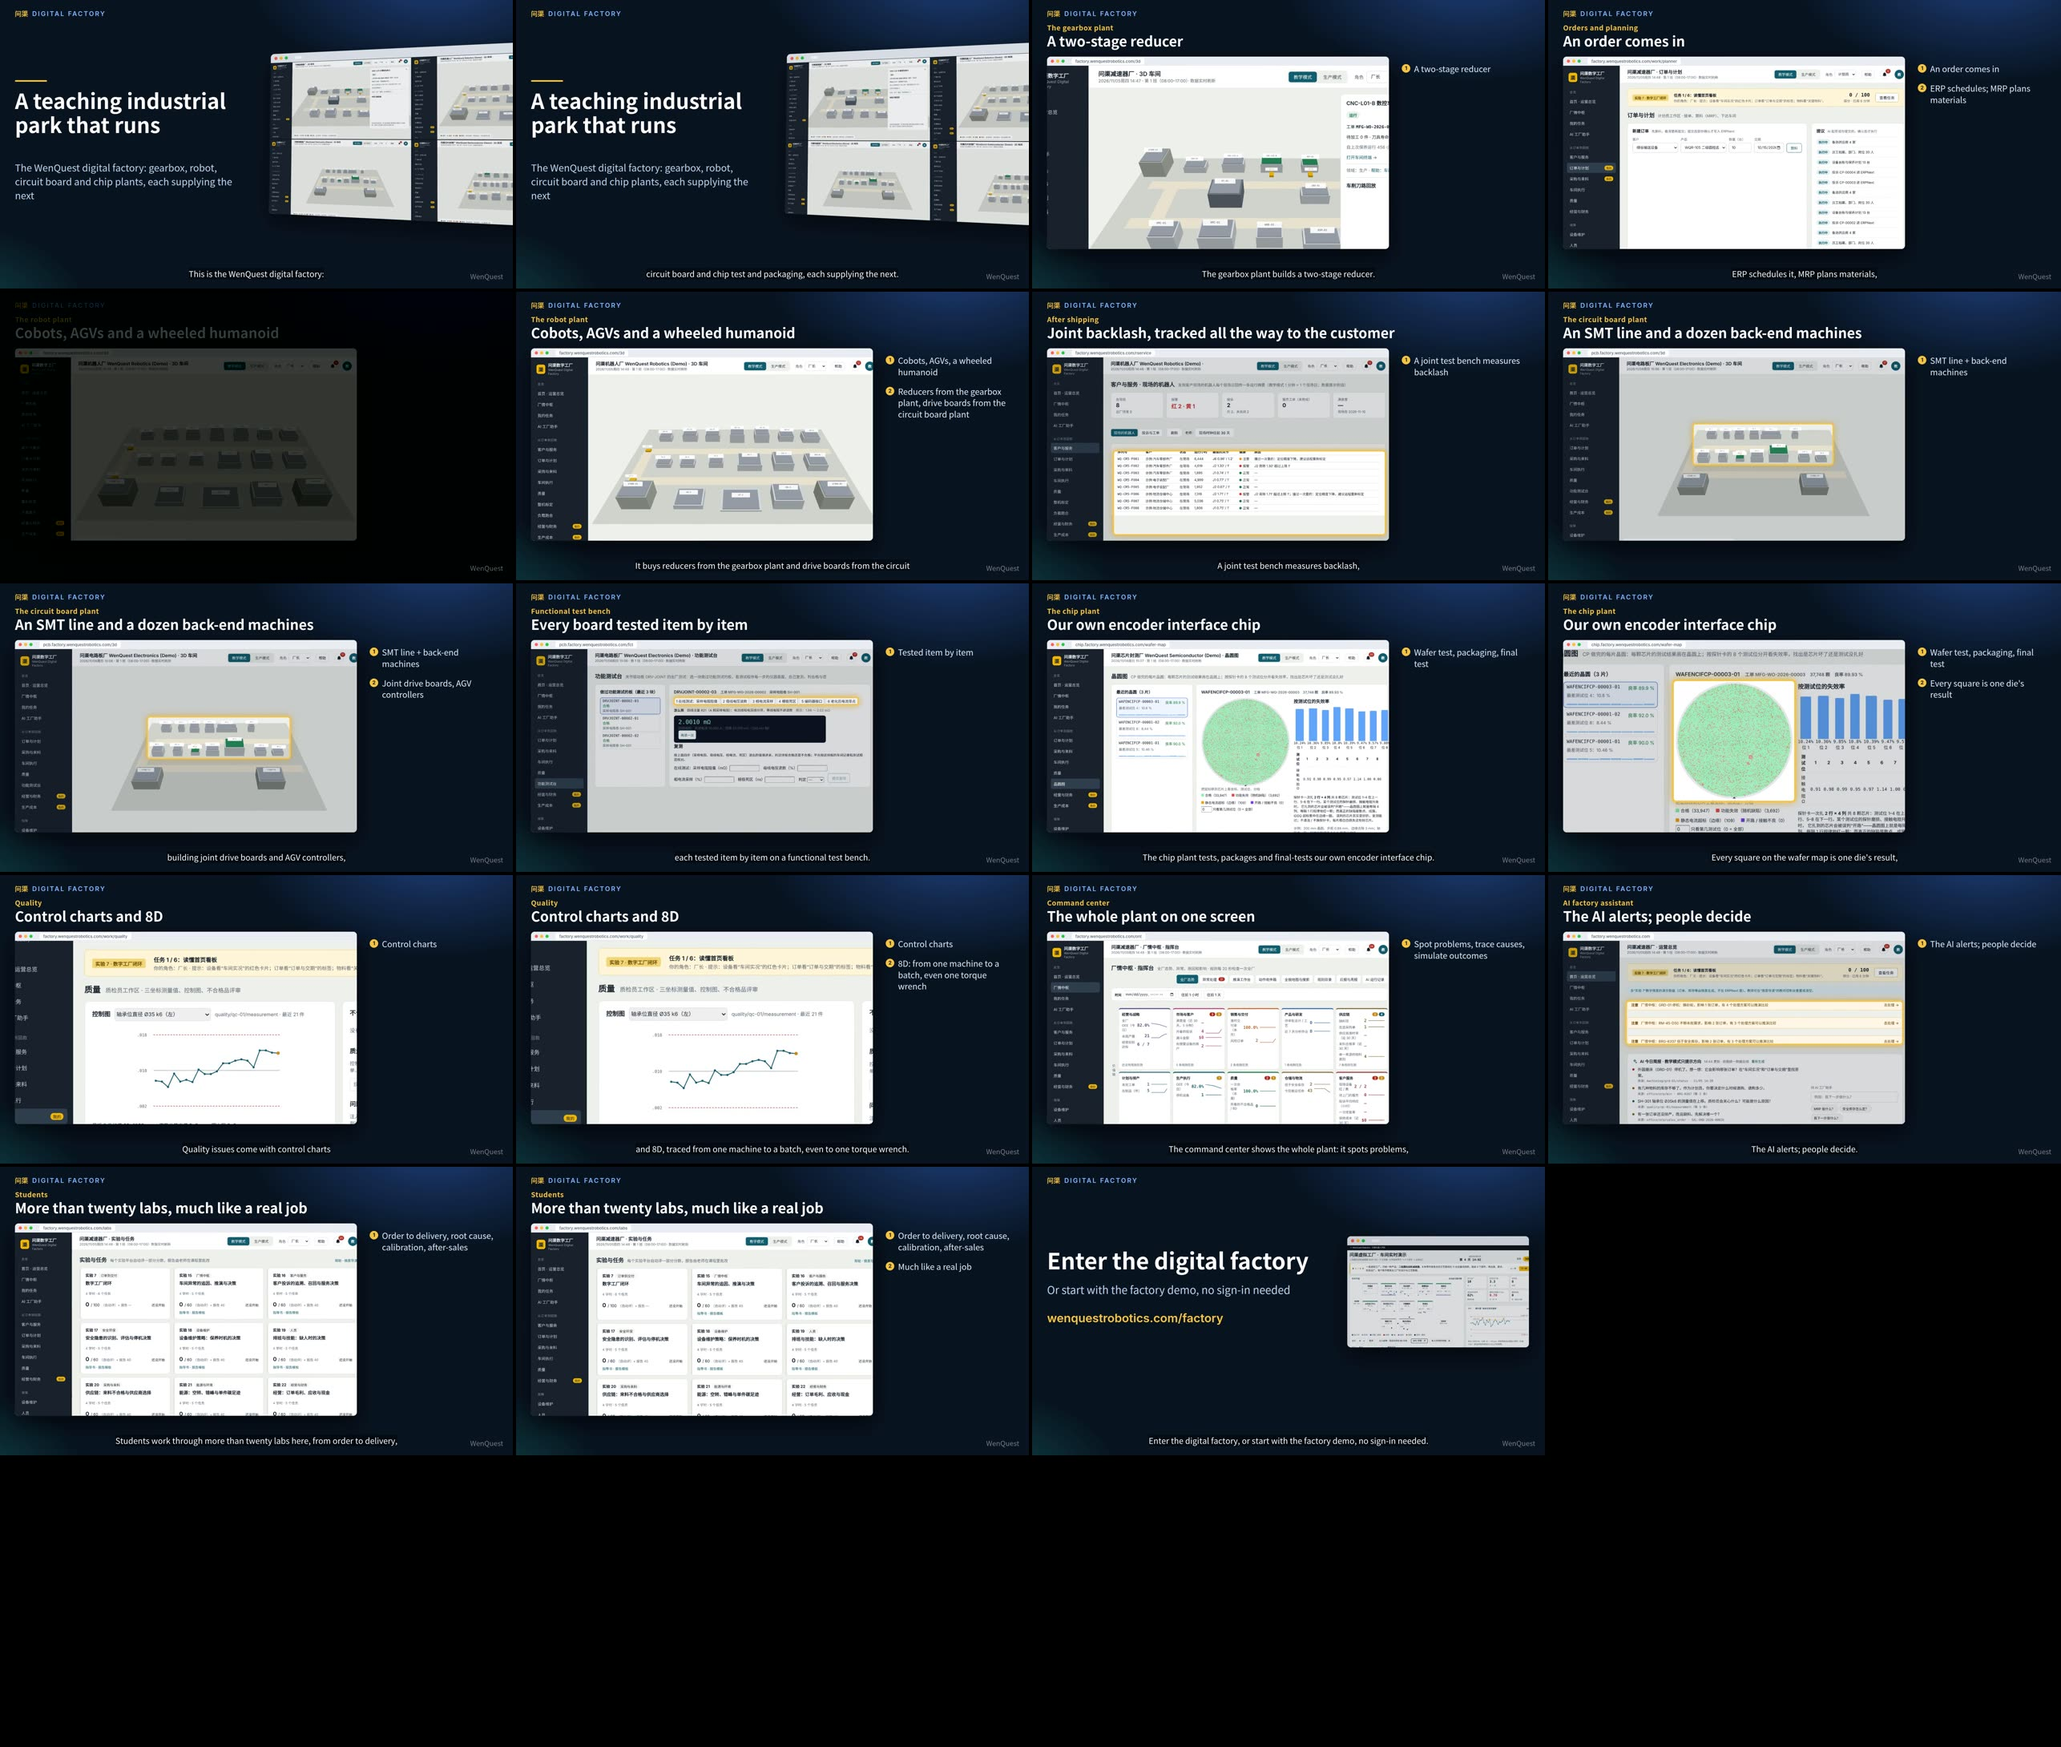
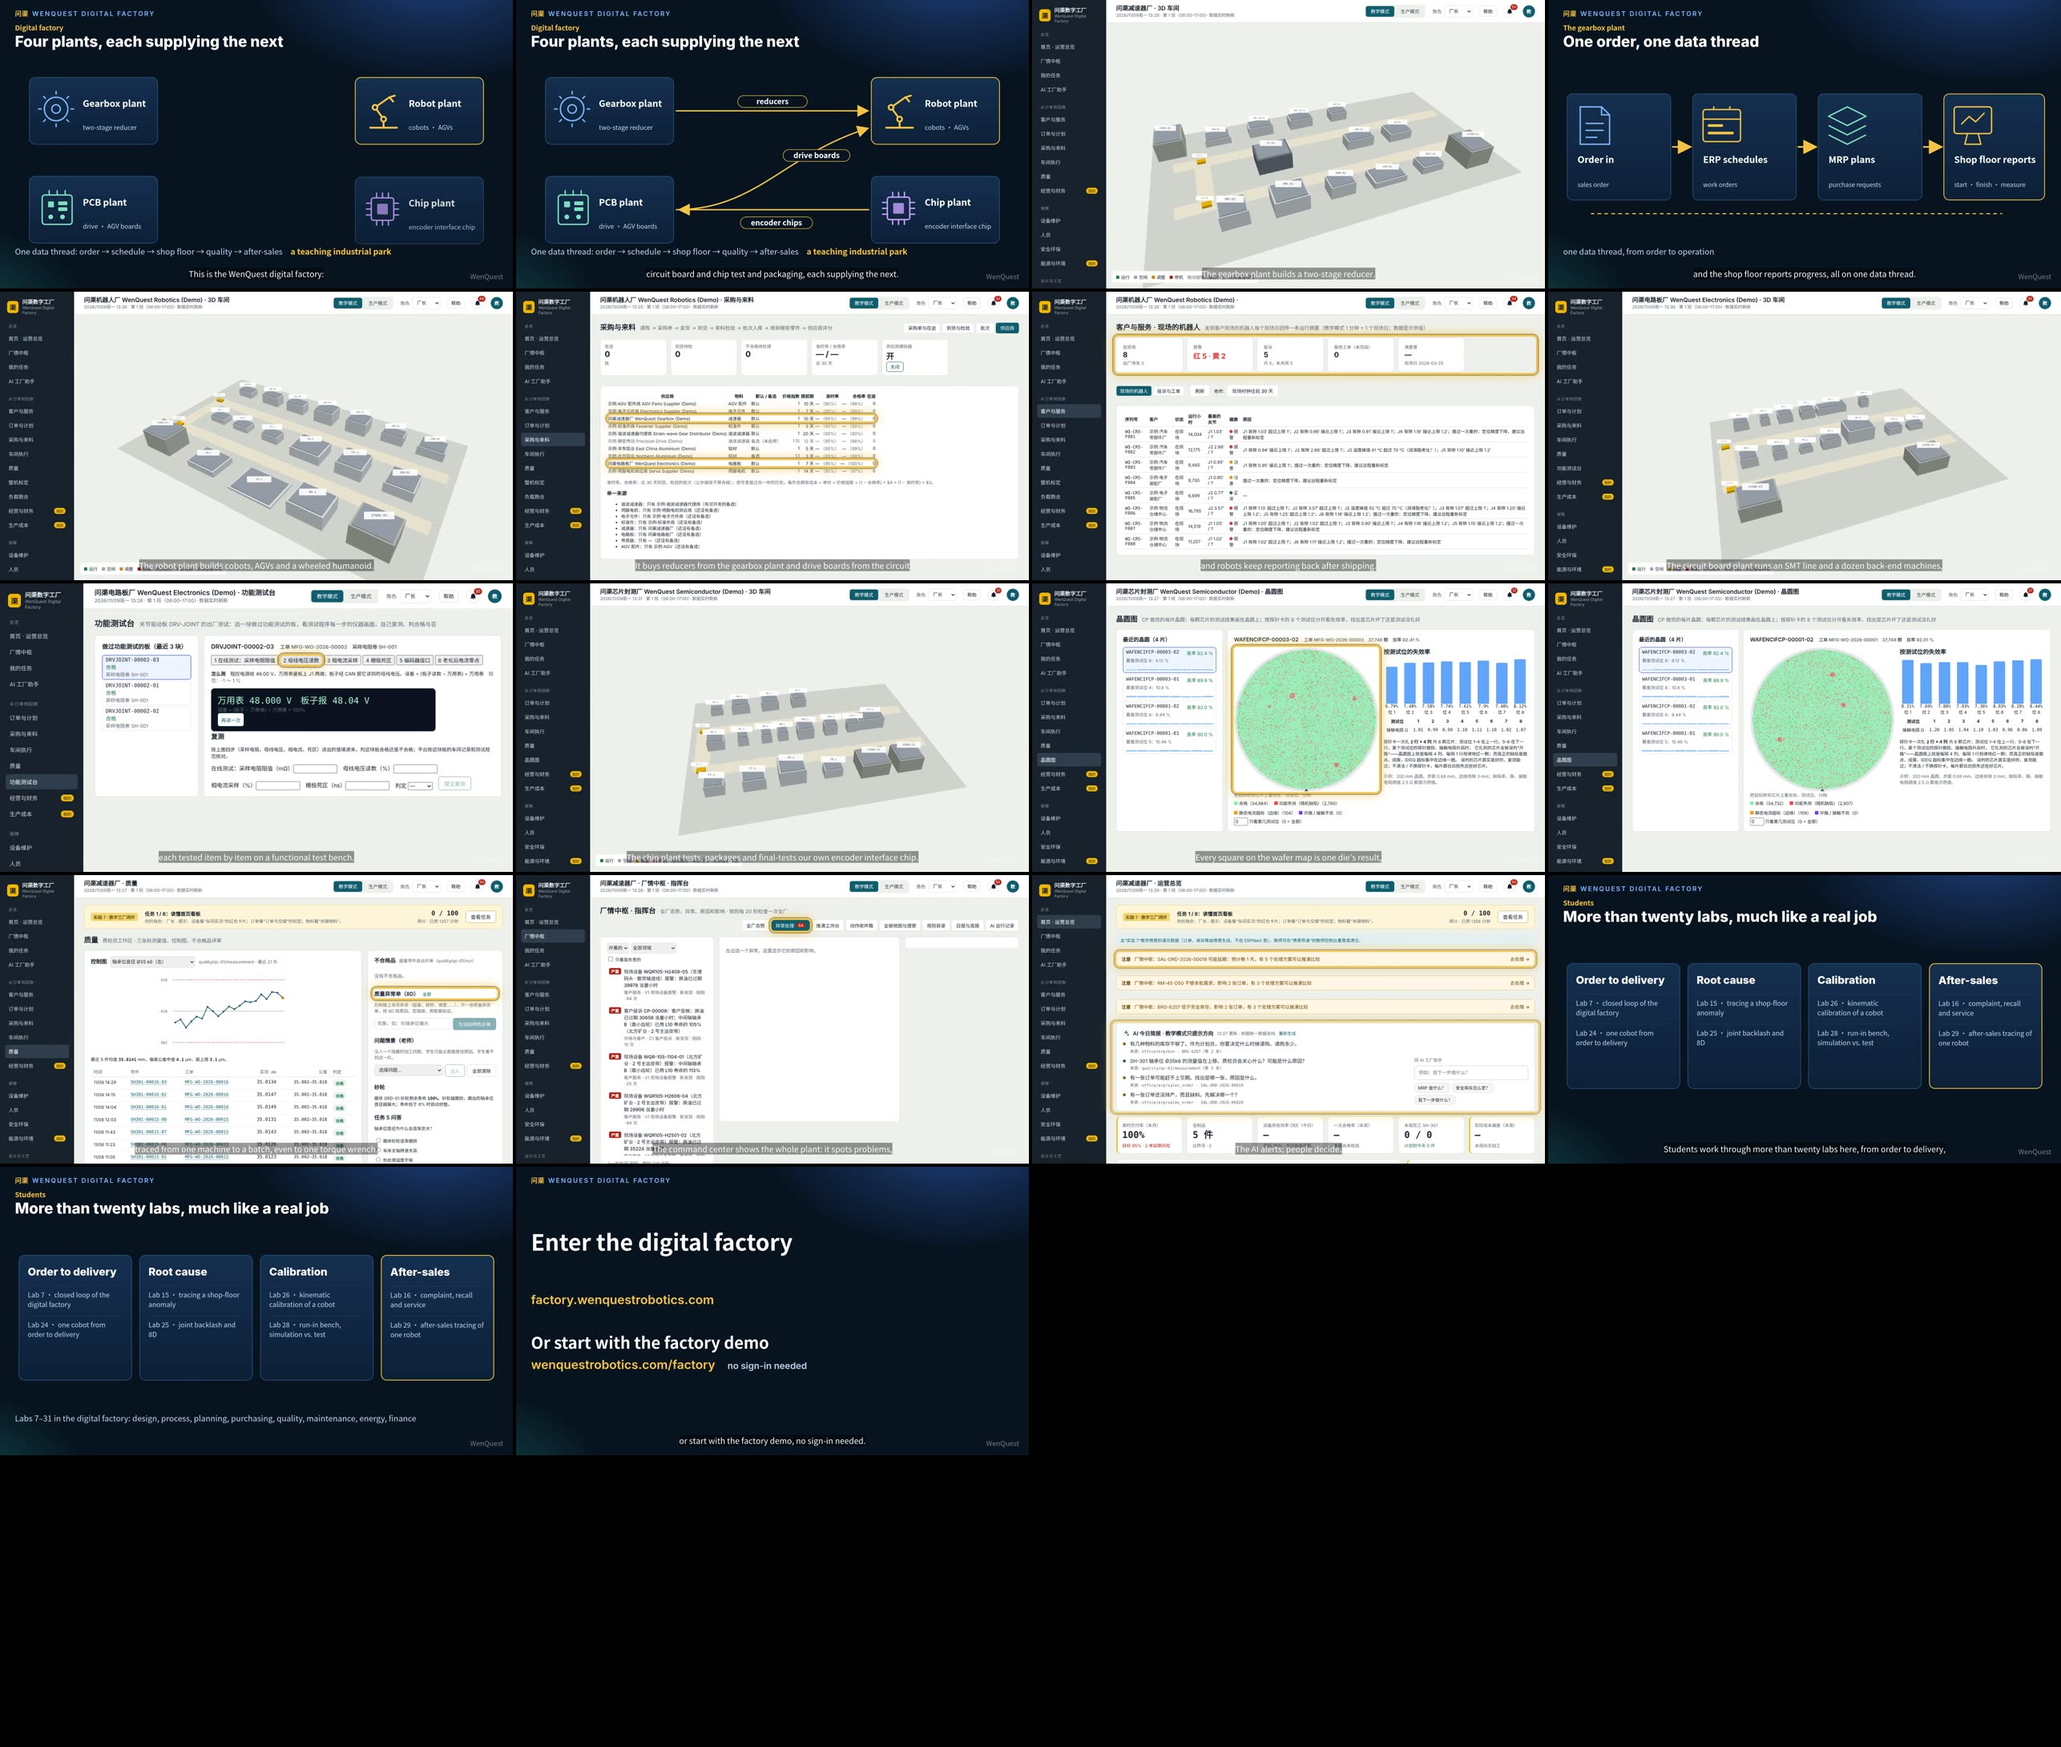
公开课视频预览：docs/课程视频/首页简介/07-数字工厂（kokoro）

diff --git a/docs/课程视频/首页简介/07-数字工厂/预览/上传资料.en.md b/docs/课程视频/首页简介/07-数字工厂/预览/上传资料.en.md
@@ -9,15 +9,15 @@ The WenQuest digital factory: a teaching industrial park that runs
 Chapters:
 0:00 Intro
 0:10 Gearbox plant
-0:22 Robot plant
-0:36 Circuit board plant
-0:49 Chip plant
-1:01 Quality
-1:09 Command center
-1:18 Labs
-1:27 Outro
+0:20 Robot plant
+0:34 Circuit board plant
+0:45 Chip plant
+0:57 Quality
+1:05 Command center
+1:13 Labs
+1:22 Outro
 
-Voice: AI-generated.Orders, customers and figures shown are teaching-scenario demo data.
+Voice: AI-generated.Orders, customers and figures shown are teaching-scenario demo data; diagrams are illustrations.
 
 ## Tags
 digital factory, smart manufacturing, ERP, MES, digital twin, industrial engineering, quality, robotics, PCB assembly, chip packaging and test, WenQuest
@@ -25,4 +25,4 @@ digital factory, smart manufacturing, ERP, MES, digital twin, industrial enginee
 ## Settings
 - Altered or synthetic content: Yes (AI voice)
 
-<!-- length 1:33 -->
+<!-- length 1:29 -->

diff --git a/docs/课程视频/首页简介/07-数字工厂/预览/上传资料.zh.md b/docs/课程视频/首页简介/07-数字工厂/预览/上传资料.zh.md
@@ -9,15 +9,15 @@
 章节：
 0:00 开场
 0:10 减速器厂
-0:20 机器人厂
-0:34 电路板厂
-0:44 芯片封测厂
-0:56 质量
-1:03 厂情中枢
-1:11 实验
-1:19 结尾
+0:19 机器人厂
+0:31 电路板厂
+0:41 芯片封测厂
+0:53 质量
+0:59 厂情中枢
+1:07 实验
+1:15 结尾
 
-配音：AI 合成。画面里的订单、客户和数字都是教学情景的演示数据。
+配音：AI 合成。画面里的订单、客户和数字都是教学情景的演示数据；示意图不是系统界面。
 
 ## Tags
 数字工厂, 智能制造, ERP, MES, 数字孪生, 工业工程, 质量管理, 机器人, 电路板, 芯片封测, 实训, 问渠
@@ -25,4 +25,4 @@
 ## Settings
 - 投稿时勾选“作者声明：使用 AI 合成技术”（配音）
 
-<!-- length 1:25 -->
+<!-- length 1:20 -->
